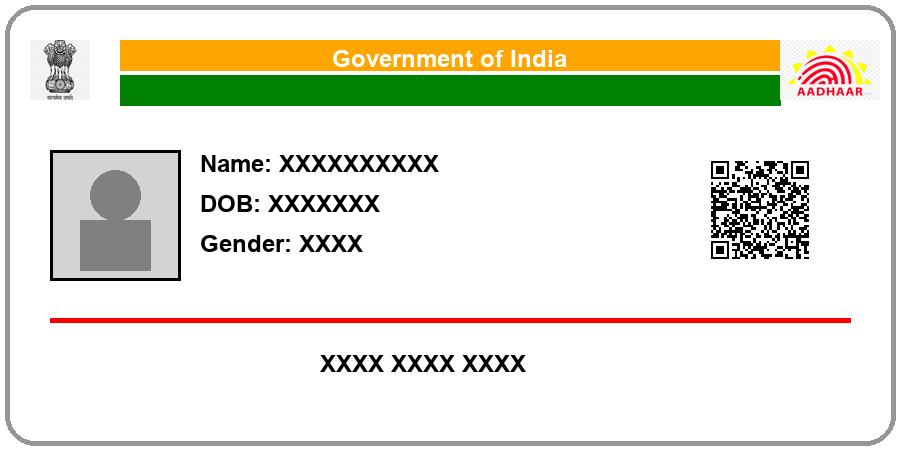
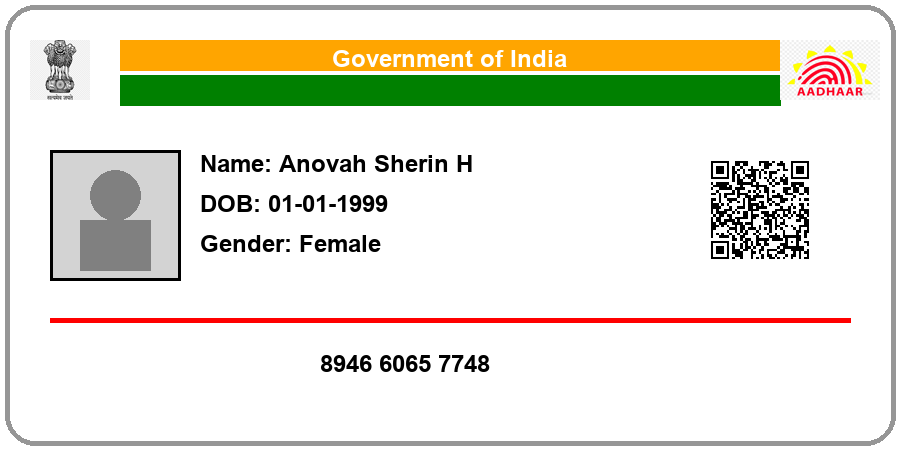
create aadhar

diff --git a/sampledata/createaadhar.py b/sampledata/createaadhar.py
@@ -3,26 +3,63 @@ from PIL import Image, ImageDraw, ImageFont
 import qrcode
 from pymongo import MongoClient
 import random
+from cryptography.fernet import Fernet
+import os
+key = os.getenv("MONGO_ENCRYPTION_KEY")  # Load from environment variable
+
+# Generate and save a key for encryption (DO THIS ONCE)
+key = Fernet.generate_key()
+cipher = Fernet(key)
+
+# Save the key securely (do NOT store it in the code in real applications)
+with open("secret.key", "wb") as key_file:
+    key_file.write(key)
 
 # MongoDB Connection
-client = MongoClient("mongodb://localhost:27017/")
+client = MongoClient("mongodb://localhost:27017")
 db = client["aadhar_db"]
 collection = db["aadhar_details"]
+
+try:
+    client.admin.command("ping")
+    print("✅ MongoDB connected successfully!")
+except Exception as e:
+    print("❌ MongoDB connection failed:", e)
 
 # Function to generate a random Aadhaar Number
 def generate_aadhar_number():
     return " ".join(str(random.randint(1000, 9999)) for _ in range(3))
 
+def encrypt_data(details):
+    """Encrypts a given string using the encryption key."""
+    return cipher.encrypt(details.encode()).decode()
+
 # User Details
 user_details = {
-    "name": "John Doe",
-    "dob": "01-01-1990",
-    "gender": "Male",
+    "name": "Anovah Sherin H",
+    "dob": "01-01-1999",
+    "gender": "Female",
     "aadhar_number": generate_aadhar_number()
 }
 
 # Save to Database
 collection.insert_one(user_details)
+print("Encrypted data saved successfully!")
+
+def decrypt_data(encrypted_data):
+    """Decrypts an encrypted string using the encryption key."""
+    return cipher.decrypt(encrypted_data.encode()).decode()
+
+# Fetch Data
+stored_data = collection.find_one({"name": encrypt_data("Anovah Sherin H")})  # Finding encrypted name
+
+if stored_data:
+    print("Decrypted Data:")
+    print("Name:", decrypt_data(stored_data["name"]))
+    print("dob:", decrypt_data(stored_data["dob"]))
+    print("gender:", decrypt_data(stored_data["gender"]))
+    print("aadhar_number:", decrypt_data(stored_data["aadhar_number"]))
+
 
 # Create Aadhaar Card Template
 width, height = 900, 450
@@ -67,7 +104,26 @@ draw.rectangle([(profile_x, profile_y), (profile_x + profile_width, profile_y + 
 head_x = profile_x + profile_width // 2
 draw.ellipse([(head_x - 25, profile_y + 20), (head_x + 25, profile_y + 70)], fill="gray")
 draw.rectangle([(head_x - 35, profile_y + 70), (head_x + 35, profile_y + 120)], fill="gray")
+aadhaar_template = Image.open("aadhaar_template.jpg")
 
+# Load user photo
+user_photo = Image.open("user_photo.jpg")
+
+# Resize user photo to fit the Aadhaar template
+photo_size = (150, 180)  # Set width and height as needed
+user_photo = user_photo.resize(photo_size)
+
+# Define position where the photo should be placed
+photo_position = (50, 50)  # (x, y) coordinates on the template
+
+# Paste user photo onto the Aadhaar template
+aadhaar_template.paste(user_photo, photo_position)
+
+# Save the generated Aadhaar card
+aadhaar_template.save("generated_aadhaar.jpg")
+
+# Show the final Aadhaar card
+aadhaar_template.show()
 # User Details
 details_x = 200
 details_y = 150
@@ -95,28 +151,6 @@ draw.text((320, 350), user_details["aadhar_number"], font=font_bold, fill="black
 # Save Aadhaar Template
 card.save("aadhaar_template.png")
 card.show()
-
-
-# Connect to MongoDB (Local or Atlas)
-client = MongoClient("mongodb://localhost:27017/")  # Change for MongoDB Atlas
-db = client["aadhar_db"]
-collection = db["aadhar_details"]
-
-# Aadhaar User Data
-user_data = {
-    "name": "John Doe",
-    "dob": "01-01-1990",
-    "gender": "Male",
-    "aadhar_number": "1234 5678 9012"
-}
-
-# Insert into MongoDB
-collection.insert_one(user_data)
-print("Aadhaar details saved!")
-
-# Retrieve and display all records
-for record in collection.find():
-    print(record)
 
 
 #task assigned to anova
